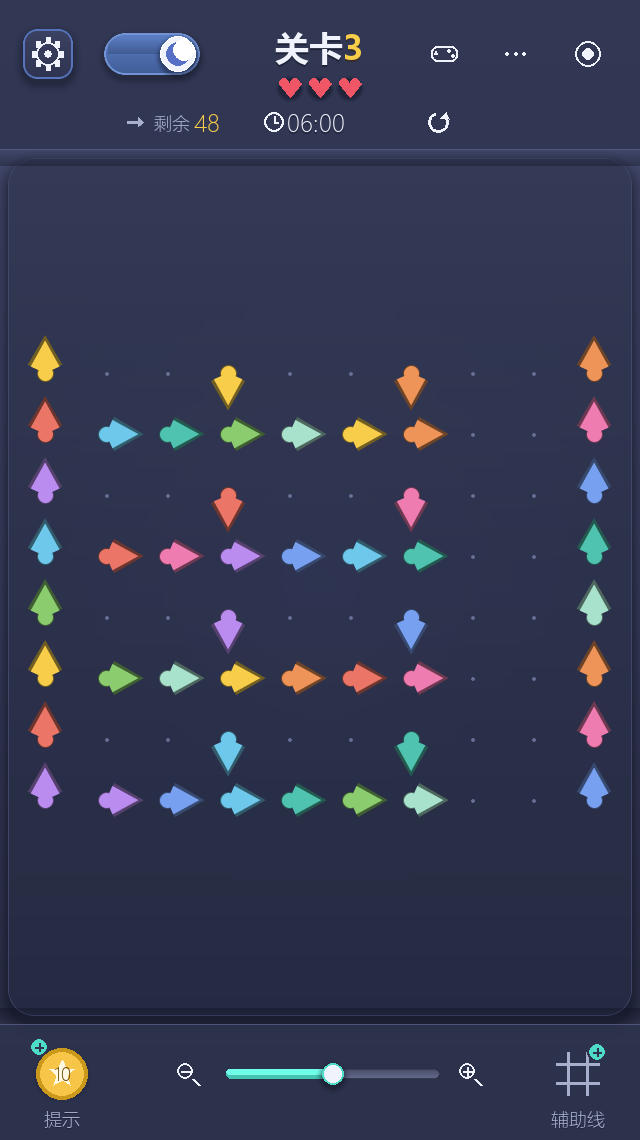
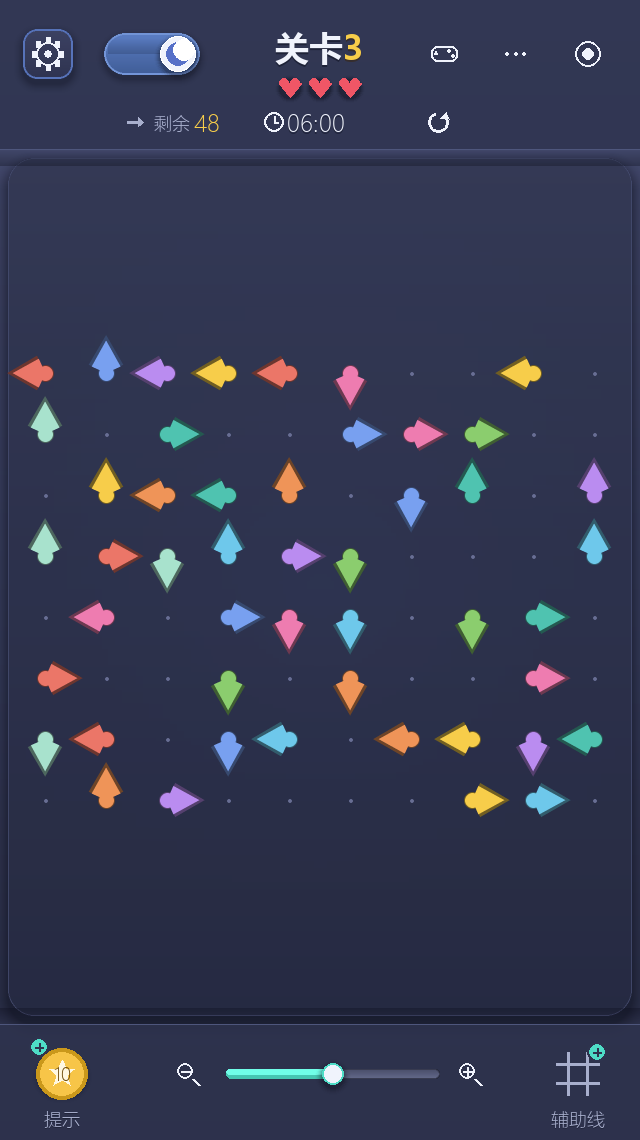
文档与截图：入门关随机散铺（T22）
- docs/design.md §9.5 重写：单格箭散铺器、alpha 的甜点区、五条硬指标、
  可解性由构造保证、为什么入门关数据不能写在 level.py 里
- docs/test-record.md：新增 T22，汇总改 370 passed，补一条已知限制
  （种子是离线筛的，没有配套重生成脚本）
- README.md：入门玩法说明改成随机散铺、目录结构补 game/tutorial.py、用例数
- AIGC记录.md：追加汇总第 26 行与「记录 M」
- 重新生成截图：入门三关盘面 + 入门选关（改名后）

diff --git a/AIGC记录.md b/AIGC记录.md
@@ -35,10 +35,11 @@
 | 23 | 开始页暗纹底 + 卡通箭吉祥物 + 按键描边 | DeepSeek | 玩家给了一张开始页设计稿（薄荷青底 + 箭形暗纹 + 标题下方一只带脸的蓝色卡通箭），要求「标题下方那个箭」「背景换成跟截图里面类似的（但要有一定改动）」「按键配色也是」 | 新增 `paint.pattern_layer()` / `blit_pattern()`：底色渐变 + 平铺的同色箭形暗纹合成成**一张不透明贴图**，图案复用游戏自己的 `_arrow_shape`（隔行错开半格、奇偶格上下翻转），`Palette` 补 `menu_top/menu_bottom/pattern/pattern_alpha`；新增 `paint.arrow_mascot()`：投影 / 外描边 / 渐变箭身 / 贴边暗面 / 高光块 + 四角星 / 一张脸（眼白、瞳孔、高光点、两道眉毛、一道笑），整体倾斜 10°，`Palette` 补 7 个 `mascot_*` 字段；主按钮改成参考图那种「亮蓝填充 + **比填充更深**的描边」（`btn_line` 从「比填充亮」翻转）；开始页整体重排给吉祥物让位 | 开始页变成「薄荷青（日间）/ 深蓝（夜间）+ 同色箭形暗纹 + 贴纸标题 + 卡通箭吉祥物 + 蓝白交替按钮」，占屏宽 49% 的吉祥物夹在副标题与按钮之间互不重叠；新增 2 条用例、改 3 条，全量 354 个通过；开始页中位 **3.02 ms**（比上一版 3.38 还低，因为底整块预合成了） | 第一版画出来完全不像箭，连挖三个坑：① 圆角靠「在顶点画圆」，圆鼓到边的外侧，剪影成了**一根骨头** → 改成正规圆角多边形（角平分线内缩 r/tan(θ/2) 得切点、圆心距两边为 r，切点还得按绕行顺序连，否则连成蝴蝶结）；② 渐变只铺在「箭身框」内，箭尾圆头伸到框外被 `BLEND_RGBA_MULT` 乘成透明、**露出深色描边**（看着像尾巴被烧黑）→ 渐变铺满画布；③ 五官直接画在画布上会**浮在箭身外面** → 五官单独成层再用剪影 `BLEND_RGBA_MULT` 裁一刀 |
 | 24 | 规则页溢出 + 入门玩法选关页 + 关号 1/2/3 + 标题居中与配色 | DeepSeek | 玩家一次提五件事：① 规则页文字排版有问题（底下被切掉）；② 「入门玩法」点进去**没有选择关卡界面**；③ 入门关卡排序要是 **1/2/3**，不要 101/102；④ 入门关卡**箭头太少**；⑤ 艺术字的**胶囊条要跟旁边的字居中**，且**第二个字和第三个字颜色不一样** | ① 量出 `esc_y = 1318` 而画面只有 1140（返回按钮整块在画面外），版式常量整体收紧（`RULES_TOP 150→120`、`RULES_GAP 16→8`、`RULES_LINE_H 32→28`、`RULES_KEY_ROW_H 46→38`、`RULES_KEYS_PAD_TOP 70→56`、`RULES_MODES_H 236→200`，玩法四行行距 40→36），现在 `esc_y = 1102`；② 新增第 9 个状态 `TUTORIAL_SELECT` + `open_tutorial_select()` + `_draw_tutorial_select()`（三张 500×130 宽卡竖排、不设解锁），按钮从「直接开第 1 关」改成进这一页，`open_select` / `leave_level` / Esc / 事件分发都补上这条分支；③ 存档 id 改成 `T1/T2/T3`（**不能**用 1/2/3，会和基础关撞车），显示关号改由 `_level_display_number(index)` 按列表下标算；④ 三关箭数 3/4/5 → **8/8/10**（贴边自由箭 / 六支一排的阻挡链 / 上下两条链），`verify_solution` 逐关验过；⑤ `art_banner` 从**底边对齐**改成**墨迹中心对齐**（原来横条被压到字的下沿，中心差 27 px）；⑥ `Palette` 新增 `art_alt2_*`（暖金）给「又」，标题成五色 | 五个问题里**只有规则页溢出是会报错的**（`test_rules_panels_stack_without_overlapping` 这条之前就是失败的），其余四个都不抛异常、测试也照样过；新增 8 条用例（胶囊条居中、三字三色、五个入口 / 九个状态渲染、选关页点得开关号 1/2/3、id 不与基础字母关相交、每关 ≥8 支且可解、入门整条链路含「进度只落在 T1 不串到基础第 1 关」），改 3 条；全量 **360 个用例**通过；截图补 `tutorial_select` / `playing_tutorial1` / `tutorial_select_day` 三张（共 23 张） | 入门选关页第一版把三关横排一行，卡片只占 250~400、**下半屏空掉一大块** → 改成三张宽卡竖排到 684，跟基础选关页节奏对齐；卡上说明文字第一版超宽（353~389 px vs 可用 300 px），把三句 desc 缩短到 227~245 px 才放进卡里；**最大的教训**：这五个问题里有四个（没有选关页、关号显示 101、箭太少、胶囊条掉到字下面）都属于「不抛异常、测试也照样过」，只能靠把版面量成数字、再逐项写成回归断言盯住 |
 | 25 | 规则页标题压字 + 入门关铺满盘面 / 三颗心 + 顶栏剩余箭数与重开 | DeepSeek | 玩家附规则页截图又提四件事：① 规则页**文字排版还是错位**；② 入门玩法**箭头还是太少**，要「尽量铺满棋盘 50% 以上」；③ 入门玩法的**红心应该是三颗**；④ 对局界面**计时器左边加剩余箭头数量、右边加重新开始按钮** | ① 给 `_draw_text` 套一个记账的壳、逐对量**墨迹**矩形，量出「按键功能」这四个字正压在表格第一行上（重叠 **13~15 px** —— 第一行是按写死的 `keys.top + 56` 画的，胶囊还要再往上 16 px）：改成**题头带** `head = font_big 字高 + 12 + 8`，正文一律从 `panel.top + head` 开始；再补一道**整页自动收紧** `RULES_SQUEEZE`（七个旋钮：正文行高 28→24、段间距 6→3、按键行距 38→34、玩法行距 36→32、标题上留白 12→6、下留白 8→4、面板间距 8→5），一步省约 29 px、全拧到底约 116 px 余量；页面大标题上移到 y=78、首块面板 y=116。② 入门三关改成用 `_single_cell_arrows(spans)` 按图案铺单格箭：**30/35/48 支**（占 **62%/56%/60%**，原来只有 7%），`solution` 交给 `solver.solve()` 的拓扑排序现算。③ `mistakes` 5 → **3**。④ 顶栏倒计时左侧「剩余 N」、右侧「重新开始」按钮（新增 `icons.restart`，回调复用 `restart_level` 并给一句提示） | 规则页 9 处重叠 → **0**；入门三关开局能直接飞的分别是 6/11/2 支（仍然是「先清挡路的」，不是无脑乱点）；全量 **368 个用例**通过（新增 9 条、删 1 条）；截图补 `playing_tutorial2/3` 两张（共 26 张）。新增回归：规则页**任意两段文字的墨迹不许重叠**、标题与首行留 ≥6 px 空档、文案变长时自动收紧仍塞得下且旋钮不越下限、顶栏三件套的左右顺序与「不与红心/齿轮/拨杆/手柄/⋯/靶心相交」、顶栏图标必须画出 ≥24 像素、点重开回到开局、入门关铺满一半且至少一支被挡着、整条解在真棋盘上走通 | ① 第一次只做了 4 个旋钮，测试里加一句长文案就顶出画面（`esc_y = 1125`）→ 旋钮扩到 7 个（补上题头带与面板间距，余量 18 → 116 px）；② 「重新开始」图标第一版用 `pygame.draw.arc`，**只画出 69 个像素**、整块区域 2 种颜色，肉眼几乎看不见 → 改用 `draw.lines` 逐点连圆弧（152 px）；③ 顶栏「剩余 N」整组宽度会随数字位数变 → 改成按中心居中，并把包围盒记在 `hud.arrows_rect / hud.clock_rect` 上给测试对位置。**教训**：这轮四个问题**没有一个会让测试变红**，而且规则页在数值上并不算「溢出」（`esc_y` 一直在画面内）—— 判据得从「有没有超界」升级成「任意两段文字的墨迹都不许叠」 |
+| 26 | 入门关「太有规律」—— 把「不规律」做成可测指标 | DeepSeek | 玩家反馈「入门玩法关卡设计不要太有规律」 | 先把「不规律」量化成五条能算的指标（整行/整列同向的条带、2×2 四格同向的小方块、横竖相邻同向的最长一段、方向占比峰值、开局可飞占比），一量旧盘面就现形：条带 **12 / 7 / 6**、同向方块 **15 / 16 / 0**、最长同向串 **6 / 5 / 8**、方向峰值 **100% / 43% / 50%** —— 前四条全中；再在 `game/tutorial.py` 里写**逆向构造散铺器**（放箭时箭头前方射线上不许有已放好的箭 ⇒ 按放箭顺序倒着点必通），落点评分 `alpha × 走廊长度 + (1-alpha) × 随机`，扫六档 alpha 后取 0.30 / 0.40 / 0.45；按五条指标从几千个种子里筛出 T1=18 / T2=17 / T3=69 写进 `TUTORIAL_PLAN`；顺手把关卡数据从 `game/level.py`（**被 tools/generate_levels.py 整份重写**）挪进新模块，生成脚本 `dump()` 里补上转发导入 | 三关条带 **0 / 0 / 0**、同向方块 **0 / 0 / 0**、最长同向串 **2 / 3 / 3**、方向峰值 **33% / 29% / 27%**、开局可飞 **37% / 31% / 23%**（难度仍递增），铺满率没掉（62% / 56% / 60%）；全量 **370 个用例**通过（新增 2 条）。新增回归：五条不规律指标、种子重跑逐格比对 + 「放箭顺序倒过来」在真棋盘上走通 | ① alpha 取 0（纯随机）开局可飞 49%~54%（乱点也通），取 1（永远挑最长走廊）可飞能压到 13%~17% 但**条带数涨到 157~189 条** —— 又变回有规律，只有 0.30~0.45 中间两头都不占；② 筛种子一次要 65 s，改成写死种子（导入时三关构建加求解 0.020 s）；③ **拆掉一个定时炸弹**：`tools/generate_levels.py` 的 `dump()` 只写 HEADER + LEVELS + SHAPE_LABELS，跑一次就会把当时手写在 `level.py` 里的入门三关抹掉 → 拆成 `game/tutorial.py` + 转发导入，并拿现成 `LEVELS` 调一遍 `dump()` 与 `game/level.py` 逐字节比对（46426 == 46426） |
 
 ---
 
-## 详述：十二条值得单独讲的记录
+## 详述：十三条值得单独讲的记录
 
 ### 记录 A：环境问题 —— 为什么用 `pygame-ce` 而不是 `pygame`
 
@@ -452,3 +453,40 @@
   - 「重新开始」图标第一版用 `pygame.draw.arc`：**半径十几像素、线宽 2~3 时它一个像素都不画**（实测整块 44×44 的区域只有 2 种颜色、图标占 69 个像素，几乎看不见）→ 改成用 `draw.lines` 按角度逐点连圆弧再补一个三角箭头（152 个像素），并补了一条「顶栏图标必须画出 ≥24 像素」的回归。
   - 顶栏「剩余 N」整组是按左对齐摆的，数字从 2 位变 1 位就会把这一行顶歪 → 改成按`ARROW_LEFT_CENTER` 组内居中，绘制时把包围盒记在 `hud.arrows_rect / hud.clock_rect` 上，测试直接拿它跟红心、齿轮、拨杆、手柄、`⋯`、靶心对位置。
 - **为什么值得单独记**：这一轮四个问题**没有一个会让测试变红**，而且规则页在数值上并不算「溢出」（`esc_y` 一直落在画面内、测试也一直绿）。它只是**把标题压在了正文上** —— 所以判据要从「有没有超界」升级成「任意两段文字的墨迹都不许叠」，才能在下一次改版时接住它。同类经验：画面上「少了 / 压了 / 挡了」的东西，只要不越界就永远不会自己喊疼。
+
+### 记录 M：入门关「太有规律」—— 把「看不清的毛病」变成可测指标
+
+- **工具**：DeepSeek
+- **提出的要求**：玩家反馈「入门玩法关卡设计不要太有规律」。上一轮刚按「铺满棋盘一半
+  以上」把三关铺到 62% / 56% / 60%，箭数是够的，但摆法是**按图案码**的：第 1 关每行
+  一条朝右的链、第 2 关上半朝上 / 下半朝下、第 3 关横行纵列交叉。
+- **AI 完成内容**：先把「有规律」翻译成五个能算的数：
+
+  1. 整行 / 整列同向的条带数（行内 ≥ 3 支且方向完全一致）；
+  2. 2×2 四格同向的小方块数；
+  3. 横竖相邻同向的最长一段；
+  4. 出现最多的那个方向占全部箭的比例；
+  5. 开局能直接飞的箭占比。
+
+  拿旧盘面一量就一目了然：条带 **12 / 7 / 6**、同向方块 **15 / 16 / 0**、最长同向串
+  **6 / 5 / 8**、方向峰值 **100% / 43% / 50%** —— 前四条全中。然后重写布局算法：
+  `game/tutorial.py` 里的**逆向构造散铺器**，放箭时只守一条约束（箭头前方的射线上
+  不许有已经放好的箭），落点评分 `alpha × 走廊长度 + (1-alpha) × 随机`。
+- **实际效果**：三关条带 **0 / 0 / 0**、同向方块 **0 / 0 / 0**、最长同向串 **2 / 3 / 3**、
+  方向峰值 **33% / 29% / 27%**、开局可飞 **37% / 31% / 23%**（一关比一关要动脑），
+  铺满率一点没掉（62% / 56% / 60%）；全量 **370 个用例**通过。
+- **人工修改**：
+  - alpha 两头都不能去：取 0（纯随机）时开局能直接飞的箭占 **49% ~ 54%**，等于没有
+    阻挡；取 1（永远挑走廊最长的落点）能把可飞压到 **13% ~ 17%**，但候选被按走廊长度
+    排序之后反而排出一排排同向的条带，条带数从 0 涨到 **157 ~ 189** 条 —— 又绕回
+    「有规律」。只有 0.30 ~ 0.45 中间同时躲开这两个坑，所以三关依次取 0.30 / 0.40 / 0.45。
+  - 筛种子一遍要 **65 秒**（3000 个种子 × 3 关），所以把结果（T1 = 18 / T2 = 17 /
+    T3 = 69）写死在 `TUTORIAL_PLAN` 里：导入时三关构建加求解一共 **0.020 秒**。
+  - **拆掉一个定时炸弹**：`game/level.py` 是被 `tools/generate_levels.py` **整份重写**
+    的（它的 `dump()` 只写 HEADER + LEVELS + SHAPE_LABELS），而入门三关当时正手写在
+    那个文件里 —— 也就是说跑一次 `python tools/generate_levels.py` 就会把入门玩法从
+    游戏里抹掉，而且不报错。改成 `game/tutorial.py` 单独成模块，`level.py` 末尾只留
+    一行转发导入，生成脚本的 `dump()` 里补上同样三行。验证方式是拿现成的 `LEVELS`
+    调一遍 `dump()` 写成临时文件，和 `game/level.py` **逐字节比对**：
+    `46426 == 46426`，True。
+

diff --git a/docs/design.md b/docs/design.md
@@ -824,42 +824,62 @@ C 的字模          放大后（3 倍）
 界面照它画、测试照它断言（包括「不再有 N 键」这条回归）。随机关卡从按键
 挪到入口按钮之后，`K_n` 的绑定被删掉，`_handle_key` 里不再有它。
 
-### 9.5 入门三关：单格箭铺满盘面
+### 9.5 入门三关：单格箭随机散铺（`game/tutorial.py`）
 
-入门玩法的三关和另外两套玩法的关卡来源完全不同 —— 它们不是生成器批量造出来的，
-而是**在 `game/level.py` 里按图案摆出来的单格箭**：
+入门玩法的三关和另外两套玩法的关卡来源不同 —— 不是生成器批量造出来的，而是
+`game/tutorial.py` 里**按逆向构造随机散铺**的单格箭：
 
 ```python
-def _single_cell_arrows(spans):     # spans: (行下标们, 列下标们, 方向)
+def scatter_arrows(rows, cols, count, seed, alpha):   # -> [(格子, 方向), ...]
 ```
 
-| 关 | 盘面 | 箭数 / 占比 | 摆法 |
-|---|---|---|---|
-| T1 满盘齐飞 | 6 × 8 | 30 / 62% | 三行铺 `cols 0~4`、三行铺 `cols 1~5`，全朝右 → 每行一条链，从最右往左点 |
-| T2 上下分头 | 7 × 9 | 35 / 56% | 上半三行全朝上、下半三行全朝下，中间一行朝右 |
-| T3 纵横交叉 | 8 × 10 | 48 / 60% | 两侧竖列 + 四条横行 + 两条下沉列，纵横交叉 |
+为什么单格箭：`Board.can_fly_arrow` 只看箭头端正前方那条射线上有没有别的线段，
+单格箭新手一眼就能读懂「这支能不能飞」，不用先学会读蜿蜒的蛇形线段。
 
-三条设计约束：
+| 关 | 盘面 | 箭数 / 占比 | 开局可飞 | alpha |
+|---|---|---|---|---|
+| T1 散落满盘 | 6 × 8 | 30 / 62% | 37% | 0.30 |
+| T2 交错成阵 | 7 × 9 | 35 / 56% | 31% | 0.40 |
+| T3 星罗棋布 | 8 × 10 | 48 / 60% | 23% | 0.45 |
 
-1. **铺满一半以上**。原来三关只有 3/4/5 支（占 7%），点两下就空了；
-2. **必须成链**，不能「无脑乱点必通关」：同一串同向的单格箭天生首尾相接 ——
-   箭头端那条射线上压着下一支，只能从箭头所指的那一端往回点。三关开局能直接飞的
-   分别是 6/11/2 支（T3 只有 2 支，是真正需要想一想的一关）；
-3. **红心和主线一致是 3 颗**（`mistakes: 3`）。这一条不改也不报错，界面上就是多出
-   两颗空心的位置。
+**盘面必须「不规律」**。上一版按「一串格子 + 一个方向」把箭码成图案（第 1 关每行
+一条朝右的链、第 2 关上半朝上/下半朝下、第 3 关横行纵列交叉）：铺是铺满了，但一眼
+就能看出规律，玩起来像照着图上标的序号点。现在改成随机散铺，落点用
+`alpha × 走廊长度 + (1-alpha) × 随机` 挑：
 
-`solution` 不手写 —— 摆完格子交给 `game/solver.py` 的拓扑排序跑一遍：
+- `alpha = 0`（纯随机）：开局能直接飞的箭占 50% 以上，乱点也能过，等于没有阻挡；
+- `alpha = 1`：可飞占比能压到 15%，但候选按走廊长度排序之后反而排出一排排同向的
+  条带 —— 又回到「有规律」了；
+- `0.30 ~ 0.45` 落在中间：既有阻挡，又不成花样。
+
+「不规律」是钉住的硬指标（`tests/test_letters.py` 原样断言，括号里是旧盘面实测值）：
+整行/整列同向的条带 0（旧 12/7/6）、2×2 四格同向的小方块 0（旧 15/16/0）、横竖相邻
+同向的最长一段 ≤ 3（旧 6/5/8）、四个方向都出现且最多的不超过 35%（旧 100%/43%/50%）、
+开局可飞 18%~42%（旧 20%/31%/4%）。
+
+`solution` 不手写，也不是靠搜解找出来的 —— **逆向构造本身就保证有解**：放箭时唯一的
+硬约束是「这支箭箭头前方的射线上不能有已放好的箭」，它正好等价于「按放箭顺序倒着点，
+每一步都飞得出去」。所以盘面天生可通关，也不会摆出互相封死的环；`solve()` 只用来
+**独立复核**，真报无解就在导入时炸掉：
 
 ```python
 order = solve(Board(level))
 if not order:
-    raise ValueError("入门关 %s 摆成了死局" % level_id)
+    raise ValueError("入门关 %s 摆成了死局，换个种子" % level_id)
 ```
 
-好处是**盘面和解永远同步**（改一格不用手工重排顺序），而且摆成死局会在**导入时**
-就炸掉，不用等到玩家点进去。测试另外用真棋盘把这条解完整走一遍（顺便独立校验
-那道拓扑序真的合法），再加一条「每关至少有一个格子被挡着」——防止以后加箭时
-不小心摆成「全部都能立刻飞」。
+好处是**盘面和解永远同步**（改种子不用手工重排顺序）。测试再补两条：一条拿
+`TUTORIAL_PLAN` 的 seed 重跑散铺器、逐个格子比对关卡数据（防止改了盘面忘了同步
+种子），一条把「放箭顺序倒过来」自己走一遍真棋盘。
+
+**种子是筛出来的，不是随手挑的**：写死在 `TUTORIAL_PLAN` 里。筛选一遍要一分钟，
+而固定种子后三关构建加求解一共 0.02 秒 —— 所以导入时不现搜。要换一批盘面：改种子，
+或者拿新的 alpha 重跑筛选。
+
+**入门关数据不能写在 `game/level.py` 里**：那个文件是被 `tools/generate_levels.py`
+**整份重写**的，手写内容放进去迟早被抹掉。所以散铺器单独成模块，`level.py` 末尾只留
+一行转发导入，生成脚本的 `dump()` 里也补上了同样三行（有测试比对「重写一遍」与
+现文件是否逐字节相同）。
 
 ## 10. 扩展功能清单
 
@@ -875,6 +895,7 @@ if not order:
 | 顶栏「剩余箭数 / 重新开始」 | `hud.Hud._draw_arrows_left`、`hud.Hud.restart_button` → `main.restart_level` |
 | 字母玩法（5×7 点阵字模 → 棋盘遮罩） | `game/letters.py` + `game/level_letters.py` |
 | 随机生成关卡 | `generator.random_level` |
+| 入门三关随机散铺（逆向构造 + 不规律筛选） | `game/tutorial.py`、`tutorial.TUTORIAL_PLAN`（见 9.5） |
 | JSON 本地存档 | `game/storage.py` |
 | 程序合成音效 | `game/audio.py` |
 | 日夜主题 | `game/theme.py` |

diff --git a/docs/test-record.md b/docs/test-record.md
@@ -1,8 +1,8 @@
-# 测试记录（T01 – T21）
+# 测试记录（T01 – T22）
 
 - 运行环境：Windows 11 / Python 3.14.0 / pygame-ce 2.5.8 / pytest 9.x
 - 运行方式：项目根目录执行 `python -m pytest -q`（测试在 SDL dummy 驱动下无窗口运行）
-- 汇总结果：**368 passed**，耗时约 25 s
+- 汇总结果：**370 passed**，耗时约 25 s
 
 ---
 
@@ -751,6 +751,47 @@
 
 ---
 
+## T22 入门关改成随机散铺：盘面必须「不规律」且来自逆向构造
+
+- **目的**：T21 把入门三关铺到了「盖住棋盘一半以上」，但摆法是**按图案码**的 ——
+  第 1 关每行一条朝右的链、第 2 关上半朝上 / 下半朝下、第 3 关横行纵列交叉。
+  用户反馈「入门玩法关卡设计不要太有规律」：铺满率够了，一眼看去却像一张图纸。
+- **用例**：
+  1. `test_tutorial_boards_are_not_laid_out_in_a_regular_pattern`（新）—— 五条硬指标：
+     整行 / 整列同向的条带 0、2×2 四格同向的小方块 0、横竖相邻同向最长段 ≤ 3、
+     四个方向都出现且最多的不超过 35%、开局可飞 18% ~ 42%；
+  2. `test_tutorial_boards_are_built_by_reverse_construction`（新）—— 拿
+     `TUTORIAL_PLAN` 的 seed 重跑散铺器、逐个格子比对关卡数据，再把**放箭顺序倒过来**
+     自己在真棋盘上走一遍；
+  3. `test_tutorial_boards_are_dense_and_never_leave_a_deadlock`（改注释）—— 盘面是
+     随机散铺出来的，求解器给的那条顺序仍要完整走得通；
+  4. `test_tutorial_levels_fill_over_half_the_board`（保留）—— 铺满率、3 颗红心、
+     单格箭、开局有箭被挡着、`verify_solution` 通过。
+- **步骤**：先把「不规律」量化成可测指标，再拿几千个种子筛：
+  - 逆向构造（放箭时箭头前方的射线上不许有已放好的箭）保证可解，不用事后搜解；
+  - 落点评分 `alpha × 走廊长度 + (1-alpha) × 随机`，扫 0 / 0.15 / 0.3 / 0.45 / 0.6 / 0.8 六档；
+  - 按五条指标筛种子，取「开局可飞」最接近理想值的那一版写进 `TUTORIAL_PLAN`。
+- **预期**：五条指标全过，且逐格复现一致。
+- **实际**：全量 **370 个用例**全过（25 s）。过程中量到的几件事：
+  - **alpha 两头都不能去**：取 0（纯随机）开局可飞占到 49% ~ 54%，乱点也能过；取 1
+    （永远挑走廊最长的落点）可飞能压到 13% ~ 17%，但候选按走廊长度排序后反而排出一
+    排排同向的条带 —— 条带数从 0 涨到 157 ~ 189 条，等于又回到「有规律」。0.30 ~ 0.45
+    落在中间：可飞 23% ~ 37%、条带 0；
+  - 旧盘面的实测值：条带 **12 / 7 / 6**、同向方块 **15 / 16 / 0**、最长同向串 6 / 5 / 8、
+    方向峰值 **100% / 43% / 50%** —— 新指标里前四条都抓得住它；
+  - 搜一遍种子要 **65 s**（3000 个种子 × 3 关），所以种子写死在表里：三关导入时构建
+    加求解一共 **0.020 s**；
+  - **踩到一个地雷**：`game/level.py` 是被 `tools/generate_levels.py` **整份重写**的
+    （`dump()` 只写 HEADER + LEVELS + SHAPE_LABELS），而入门三关当时正手写在那个文件
+    里 —— 跑一次 `python tools/generate_levels.py` 就会把关卡数据连同入门玩法一起抹掉。
+    改成 `game/tutorial.py` 单独成模块，`level.py` 末尾只留一行转发导入，生成脚本的
+    `dump()` 里补上同样三行。验证方式是拿现成的 `LEVELS` 调一遍 `dump()` 写到临时文件，
+    与 `game/level.py` **逐字节比对**：46426 == 46426，`True`。
+- **结论**：把「不规律」当成和「铺满率」一样的可测指标写进测试才守得住 —— 数值上
+  「没超界、有阻挡、铺得满」全都不假，但看着就是一张图纸。
+
+---
+
 ## 未覆盖 / 已知限制
 
 - `game/audio.py` 的音效只在有真实音频设备时才会响，测试环境用 dummy 驱动，只验证了
@@ -767,3 +808,7 @@
 - **文字没有缓存**：`_draw_text` / `text_shadow` 每帧都现 `font.render`，规则页正文
   折到 6 行之后这一项约 1 ms。文字内容是静态的，真要压可以按（字体, 文字, 颜色）
   缓存一张贴图，只是目前没必要 —— 中位 8.89 ms 离 16.7 ms 还远。
+- 入门三关的种子是**离线筛出来的**（`game/tutorial.py` 的 `TUTORIAL_PLAN`），没有
+  配一个像 `tools/generate_levels.py` 那样的重生成脚本：要换盘面得改种子，或者按
+  `docs/design.md` §9.5 的步骤重跑一遍筛选（约一分钟）。测试只保证「当前这组种子
+  满足全部指标」，不保证「随便换个种子也能筛出来」。
